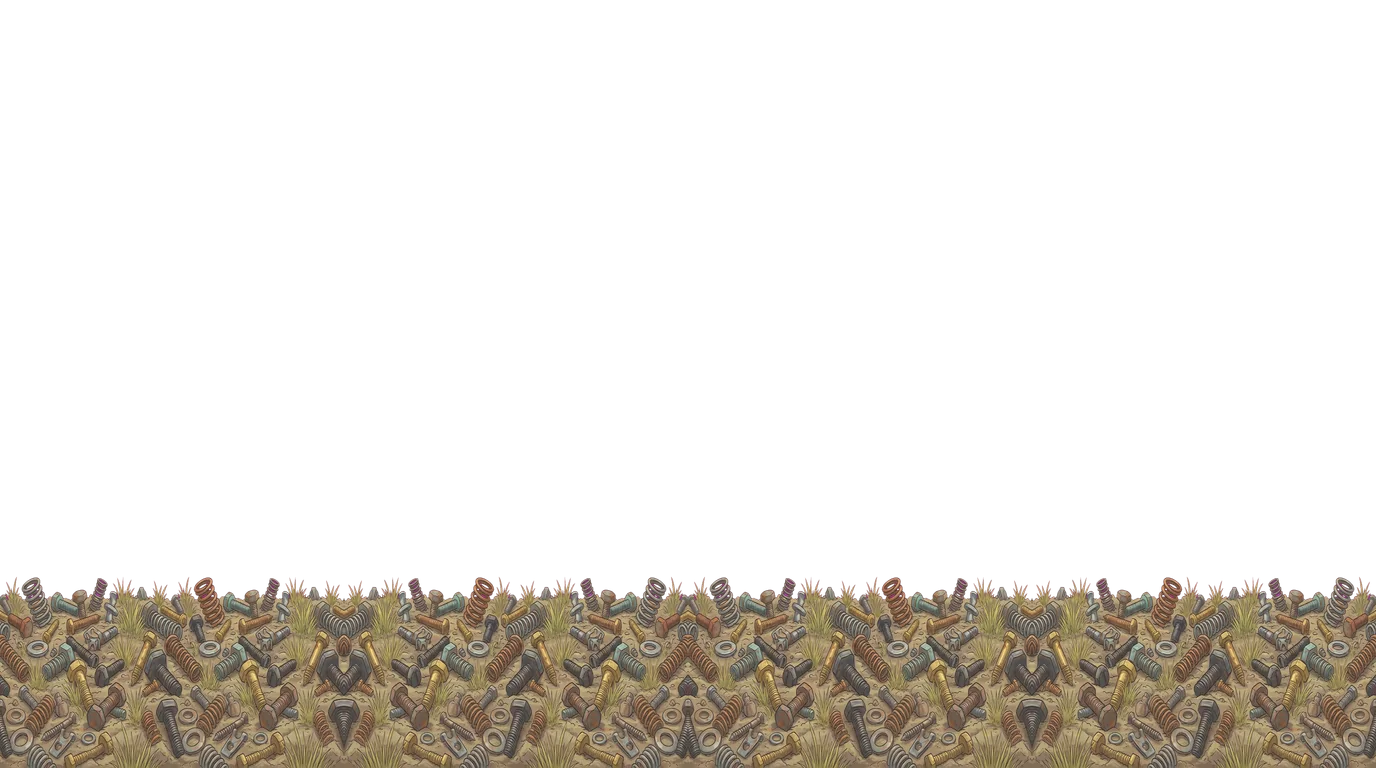
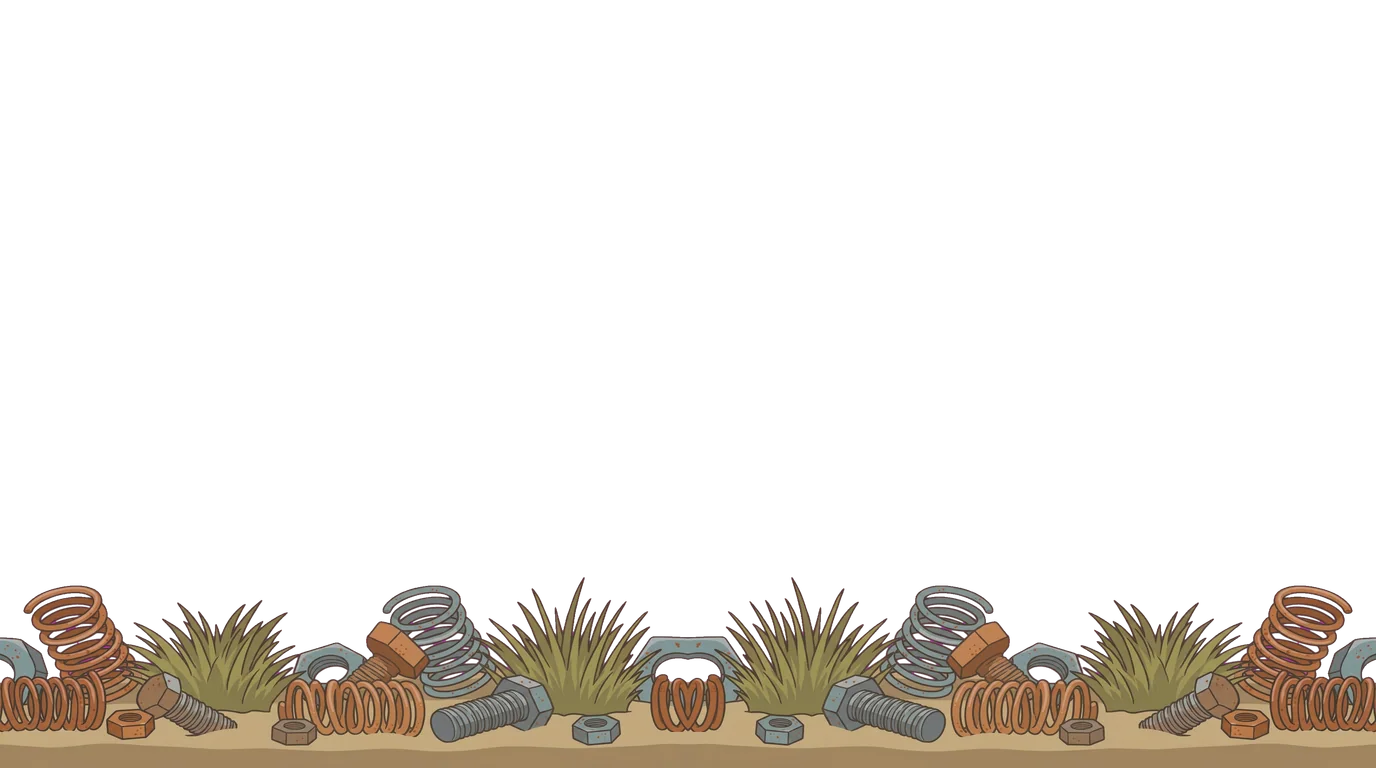
feat(assets): strip prompt with low ground band, new junkyard near strip
Claude-Session: https://claude.ai/code/session_01T65eT6icCJhzD8mh6Ejoge

Changed region(s): [[0.0, 0.75, 1.0, 1.0]]

diff --git a/assets-src/PROMPTS.md b/assets-src/PROMPTS.md
@@ -200,10 +200,12 @@ Every prompt is one self-contained text: paste the world's block from "World sty
 Each world needs 3 layers for a gentle parallax effect: `far` (full picture, 16:9) and
 `mid` and `near` (a close-up strip, 21:9). The far layer repeats horizontally, so its sky
 must be even: no sun, no moon, no single big planet (on a wide screen it would be seen
-twice). Gemini cannot keep a picture in the bottom part only, so `mid` and `near` ask for
-a strip that fills the whole image; `npm run assets` shrinks it to the target height in
-the table, repeats it across the width and places it at the bottom. Older `mid`/`near`
-files with the layer already in the lower part still work as they are.
+twice). `mid` and `near` ask for big pieces standing on a low ground band along the bottom
+edge, with flat magenta everywhere above and between them (a taller ground area turned
+into an empty plane behind the pieces). `npm run assets` cuts the strip from the top of
+the tallest piece down, shrinks it to the target height in the table, repeats it across
+the width and places it at the bottom. Older 16:9 `mid`/`near` files with the layer
+already in the lower part still work as they are.
 
 ### Common prompt for `*-far.jpg` (replace SCENE and WORLD STYLE)
 ```
@@ -216,7 +218,7 @@ Wide game background, landscape 16:9: SCENE. The sky is a small part of the imag
 
 ### Common prompt for `*-mid.jpg` and `*-near.jpg` (replace LAYER and WORLD STYLE)
 ```
-WORLD STYLE. Ultra-wide panoramic image, 21:9: one continuous close-up strip of LAYER that fills the whole image from the bottom edge up to an uneven top silhouette near the top edge. Above the silhouette only a thin band of one perfectly flat solid pure magenta color (#FF00FF), no sky, no gradient. Big, close objects: 6 to 12 large whole pieces that overlap a little, no tiny pieces, soft muted colors and little fine detail. The top silhouette is uneven: some pieces stick up higher than others, never a straight or flat top edge. Strong contrast between the objects and the ground behind them: objects clearly darker (or clearly more saturated) than the ground. Every object appears only once: do not repeat or copy any part of the image inside it. No white or light outline, halo or sticker border around the objects: their dark outlines meet the magenta directly. No characters, no text. Flat side view like a 2D platformer, no perspective and no vanishing point: the ground, floor and walkway are drawn straight from the side as a horizontal band, every line is either horizontal or vertical, nothing runs toward a point in the distance.
+WORLD STYLE. Ultra-wide panoramic image, 21:9, on a flat solid pure magenta (#FF00FF) background. Along the bottom edge a low band of ground in the ground color of the world, about the lowest fifth of the image. Standing on that ground band: LAYER, 6 to 12 large whole pieces that overlap a little, no tiny pieces, soft muted colors and little fine detail. The pieces reach up to different heights (the tallest almost to the top edge), so their tops form an uneven silhouette, never a straight or flat top edge. Between and above the pieces there is only the flat magenta: no ground, no wall, no sky, no distant objects, no silhouettes in the background, nothing behind the pieces except magenta. Strong contrast: pieces clearly darker or more saturated than the ground band. Every piece appears only once: do not repeat or copy any part of the image inside it. No piece is cut by the left or right edge of the image. No white or light outline, halo or sticker border around the pieces: their dark outlines meet the magenta directly. No characters, no text. Flat side view like a 2D platformer, no perspective and no vanishing point: the ground band is a straight horizontal band seen from the side, nothing runs toward a point in the distance.
 ```
 The height column is where the script places the strip (part of the screen height,
 counted from the bottom); it lives in `STRIP_HEIGHT` in `scripts/assets.mjs`.
@@ -242,19 +244,19 @@ counted from the bottom); it lives in `STRIP_HEIGHT` in `scripts/assets.mjs`.
 ### World style (fills `WORLD STYLE` in the far and strip prompts)
 Paste the block of the world into every prompt of that world (far, mid, near) in place of
 `WORLD STYLE`, so each picture is generated alone, with no attachment, and still lines up.
+The Ground line is for the far picture; the strip prompt sets its own low ground band.
 Common to all blocks: uniform outline about 2 px (stated per world), flat fills with at most
 one soft lighter band along the top of each shape, no gradients to white, no pale, white or
 pink rim around objects. The far picture keeps its sky small (about the top fifth: most of
 the picture is scenery), because the strips do not use the sky.
 
-What makes the junkyard strips (`bg-junkyard-mid/near`) the reference: one even dark
-brown-grey outline of the same weight on everything; 6 to 12 big whole objects, each drawn
-once, overlapping a little; warm rust, tan and teal fills clearly darker than the beige
-ground; an uneven top silhouette (a pipe, a gear, a bush grass tuft sticks up here and
-there, never a straight line); the dark outline meets the magenta directly. The flagged
-pictures fail on one of these: a flat top edge (planet-near), a pattern that repeats inside
-(junkyard-near), too many small pieces and pale fills on a pale ground (robocity), a light
-pink rim (workshop).
+What makes `bg-junkyard-near` the reference: one even dark brown-grey outline of the same
+weight on everything; 6 to 12 big whole objects, each drawn once, overlapping a little;
+warm rust, tan and teal fills clearly darker than the beige ground; a low ground band with
+only magenta behind the objects; an uneven top silhouette (a spring, a bolt, a grass tuft
+sticks up here and there, never a straight line); the dark outline meets the magenta
+directly. The flagged pictures fail on one of these: a flat top edge (planet-near), too
+many small pieces and pale fills on a pale ground (robocity), a light pink rim (workshop).
 
 **meadow**
 - Palette: sky #BFE3F5, grass #8CCB6A and #5FA84A, accents warm yellow #F6D55C and pink #F2A5B8, outline #3F5B3A.
@@ -536,7 +538,7 @@ first, then attach it to the other prompts ("the same robot as in the attached i
 |---|---|---|---|
 | `bg-junkyard-far.jpg` | a friendly junkyard in soft daylight with soft hills of old things far away, a rusty but cheerful crane and a light blue sky | full | regenerate (was sunny) |
 | `bg-junkyard-mid.jpg` | soft piles of old tires, wooden crates and round metal cans | 45 % | |
-| `bg-junkyard-near.jpg` | scattered small springs, bolts and grass tufts on the ground | 25 % | regenerate: the pattern repeats inside the picture, fewer and larger pieces  |
+| `bg-junkyard-near.jpg` | a few big coiled metal springs, large bolts and nuts and thick grass tufts | 25 % | done 2026-10-22 (reference for the strip prompt) |
 | `bg-workshop-far.jpg` | the inside of a warm cozy workshop with wooden walls, shelves with jars of screws, hanging tools and a round window | full | |
 | `bg-workshop-mid.jpg` | a long workbench with drawers and small toolboxes | 45 % | regenerate: a pale pink outline around every object  |
 | `bg-workshop-near.jpg` | a conveyor belt running across the whole image with rollers below | 25 % | regenerate: a pale pink outline around every object  |

diff --git a/.todo/BACKLOG.md b/.todo/BACKLOG.md
@@ -4,7 +4,7 @@ Everything found outside the current task, one line each, most important first:
 `- [P1|P2|P3] <title> - <one line: what is wrong and where>`.
 Search before adding; an entry is worked only when it is named.
 - [P3] Native-speaker review of the Slovak word list - public/words/sk.json was generated; rare or odd word forms may remain
-- [P2] Regenerate flagged background art - six `regenerate:` rows in assets-src/PROMPTS.md (planet-near flat edge, junkyard-near repeat, robocity mid/near busy, workshop mid/near pink outline)
+- [P2] Regenerate flagged background art - five `regenerate:` strip rows in assets-src/PROMPTS.md with the new strip prompt (planet-near flat edge, robocity mid/near busy, workshop mid/near pink outline)
+- [P3] Shadowed magenta stays inside strip springs - scripts/assets.mjs keyOut keeps dark purple key pixels between coils of bg-junkyard-near (about 200 px)
 - [P3] Objects can flash their fallback on first spawn - src/game/runtime.ts prepare() preloads only the three backgrounds; mode sprites load on first draw (declare them per mode)
 - [P3] An update re-downloads the whole install cache - scripts/sw-template.js addAll(CORE) fetches every file again when the version changes (about 6.6 MB)
-- [P2] Test standalone strip prompts - generate bg-junkyard-near alone from the new World style prompt (no attachment) in assets-src/PROMPTS.md, compare with the current picture, then regenerate the six flagged strips

diff --git a/.specify/experience/visuals.md b/.specify/experience/visuals.md
@@ -55,3 +55,5 @@
 - Mixed shapes in the top bar looked untidy; fullscreen hides the browser's distractions.
 - A sun in a repeating sky showed twice on wide screens. The image generator cannot keep
   a picture to the bottom part of an image, but draws a full close-up strip well.
+- A strip whose ground filled most of the picture showed an empty plane behind its objects;
+  objects standing on a low ground band with nothing behind them read as a real foreground.
